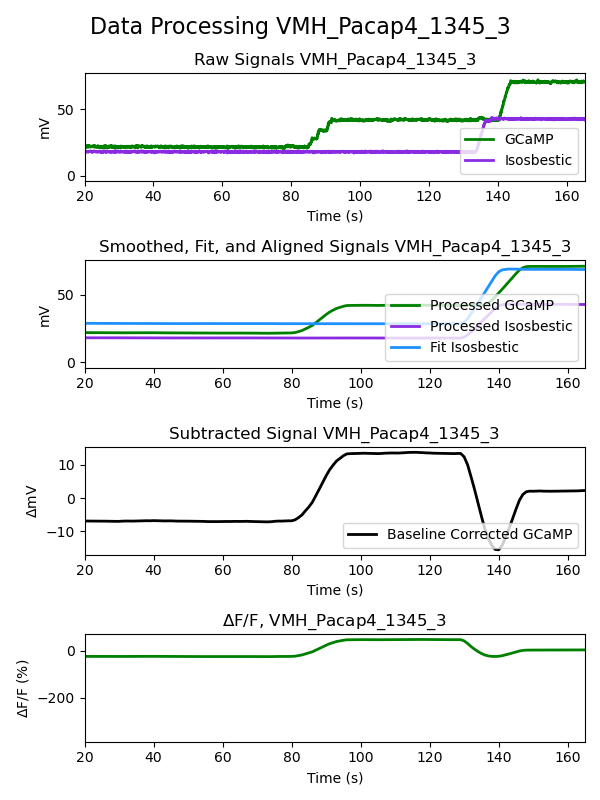
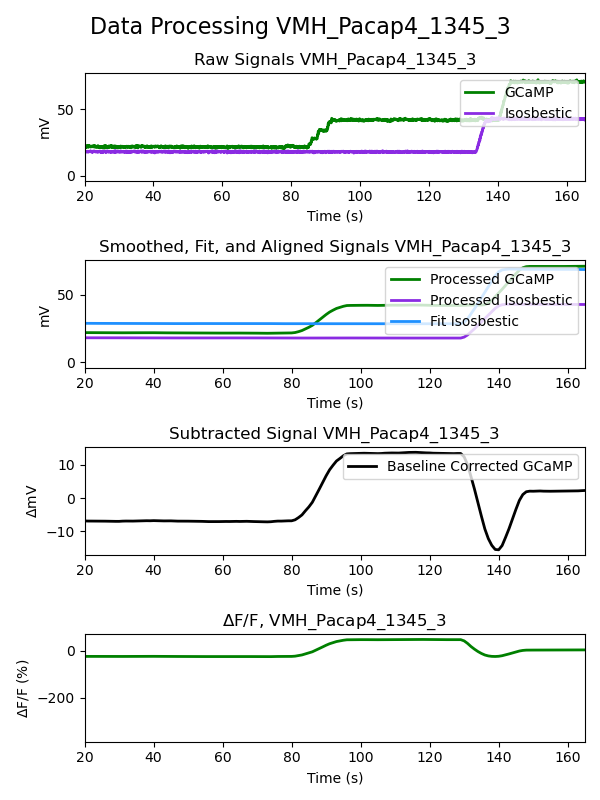
allow for 470A sensor name to be used as well

diff --git a/python/input_to_extract.py b/python/input_to_extract.py
@@ -14,20 +14,26 @@ def extract_name_streams(blockname, tankdir, filenames, trimstart, trimend):
 		chars = []
 		GCAMP_list = []
 		ISOS_list = []
+		# identify signal names
 		for field in fields:
 			last_char = field[-1]
 			if last_char not in chars and (last_char == "A" or last_char == "C" or last_char == "E" or last_char == "G"):
-				chars.append(last_char)
-				GCAMP = "_465" + last_char
-				GCAMP_list.append(GCAMP)
-				ISOS = "_405" + last_char
-				ISOS_list.append(ISOS)
+				if ("_470A" in fields):
+					GCAMP = "_470A"
+					ISOS = "_405A"
+					GCAMP_list.append(GCAMP)
+					ISOS_list.append(ISOS)
+				else:
+					chars.append(last_char)
+					GCAMP = "_465" + last_char
+					GCAMP_list.append(GCAMP)
+					ISOS = "_405" + last_char
+					ISOS_list.append(ISOS)
 		process(GCAMP_list, ISOS_list, files, data, trimstart, trimend)
 
 
 def process(GCAMP_list, ISOS_list, files, data, trimstart, trimend):
-	num = len(GCAMP_list)
-	for i in range (0, num):
+	for i in range (0, len(GCAMP_list)):
 		file = files[i]
 		# trim
 		GCAMP = GCAMP_list[i]
@@ -39,16 +45,16 @@ def process(GCAMP_list, ISOS_list, files, data, trimstart, trimend):
 
 		data_GCAMP = np.array(data.streams[GCAMP.title()].data)
 		data_ISOS = np.array(data.streams[ISOS.title()].data)
-		Signal465 = data_GCAMP[start:-stop]
-		Signal405 = data_ISOS[start:-stop]
+		Signal_GCAMP = data_GCAMP[start:-stop]
+		Signal_ISOS = data_ISOS[start:-stop]
 		trimtime = time[start:-stop]
 
 		# downsample
 		N = fs
-		arr_GCAMP = (np.arange(start = 1, stop = len(Signal465) - N + 1, step = N)).astype(int)
-		down_GCAMP = [statistics.mean(Signal465[i:round(i+N-1)]) for i in arr_GCAMP]
-		arr_ISOS = (np.arange(start=1, stop=len(Signal405) - N + 1, step=N)).astype(int)
-		down_ISOS = [statistics.mean(Signal405[i:round(i + N - 1)]) for i in arr_ISOS]
+		arr_GCAMP = (np.arange(start = 1, stop = len(Signal_GCAMP) - N + 1, step = N)).astype(int)
+		down_GCAMP = [statistics.mean(Signal_GCAMP[i:round(i+N-1)]) for i in arr_GCAMP]
+		arr_ISOS = (np.arange(start=1, stop=len(Signal_ISOS) - N + 1, step=N)).astype(int)
+		down_ISOS = [statistics.mean(Signal_ISOS[i:round(i + N - 1)]) for i in arr_ISOS]
 		downtime = trimtime[::round(N)]
 		downt = downtime[:len(down_GCAMP)]
 
@@ -105,7 +111,7 @@ def process(GCAMP_list, ISOS_list, files, data, trimstart, trimend):
 		fig.tight_layout()
 		plt.savefig(str(file) + '.png')
 
-		# plot just dFF
+		# plot just dff
 		fig2 = plt.figure()
 		ax = fig2.add_subplot(211)
 		ax.plot(downt, dFF, linewidth=2, color='green')
@@ -127,9 +133,9 @@ def main():
 	trimstart = 20
 	trimend = 20
 	blockname = ['VMH_Pacap4_67-210716-120928', 'VMH_Pacap4_1345-210716-115350']
-	filenames = {'VMH_Pacap4_67-210716-120928': ['VMH_Pacap4_67_1', 'VMH_Pacap4_67_2', 'VMH_Pacap4_67_3', 'VMH_Pacap4_67_4'],
-				 'VMH_Pacap4_1345-210716-115350': ['VMH_Pacap4_1345_1', 'VMH_Pacap4_1345_2', 'VMH_Pacap4_1345_3', 'VMH_Pacap4_1345_4']
-				 }
+	filenames = {
+		'VMH_Pacap4_67-210716-120928': ['VMH_Pacap4_67_1', 'VMH_Pacap4_67_2', 'VMH_Pacap4_67_3', 'VMH_Pacap4_67_4'],
+		'VMH_Pacap4_1345-210716-115350': ['VMH_Pacap4_1345_1', 'VMH_Pacap4_1345_2', 'VMH_Pacap4_1345_3', 'VMH_Pacap4_1345_4']}
 	extract_name_streams(blockname, tankdir, filenames, trimstart, trimend)
 
 
